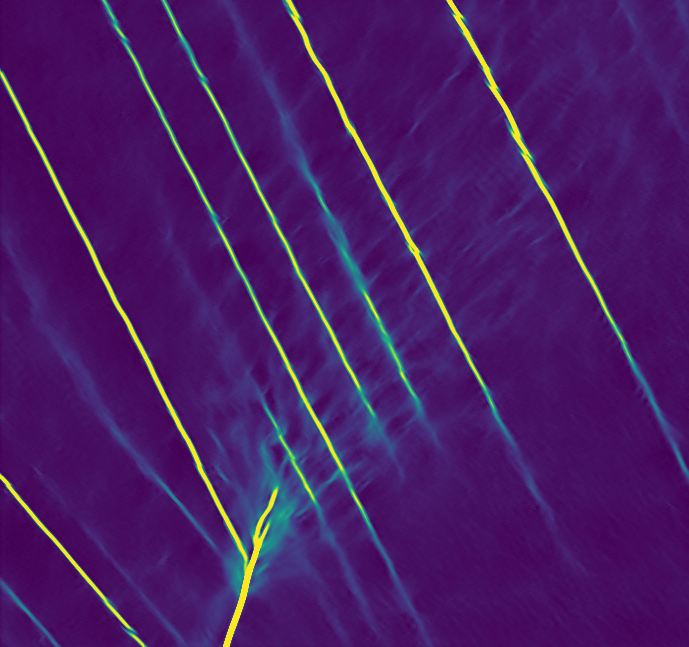
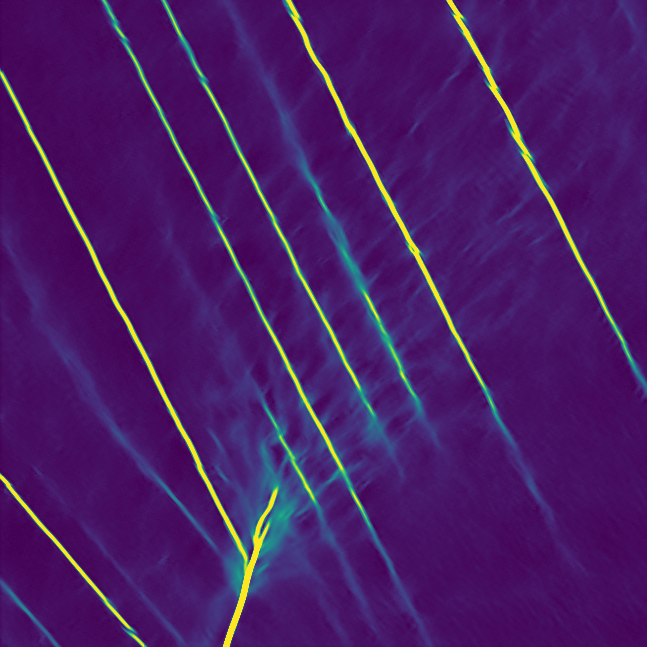
site : curseur du haut carre (647 x 647)

diff --git a/make_field_screens.py b/make_field_screens.py
@@ -52,7 +52,9 @@ DISP_PCT = (1, 99)
 # la partie dense en bandes et la fissure la plus ouverte. Fractions de l'image, choisies
 # sur le cadre trace a l'ecran.
 CROP_TOP = 0.28
-CROP_RIGHT = 0.30
+# Le reste de la largeur est ajuste pour rendre l'image CARREE : a 0.30 elle etait plus
+# large que haute (689 x 647), et couper davantage le haut l'aurait aplatie encore.
+CROP_RIGHT = 0.3425
 
 
 
